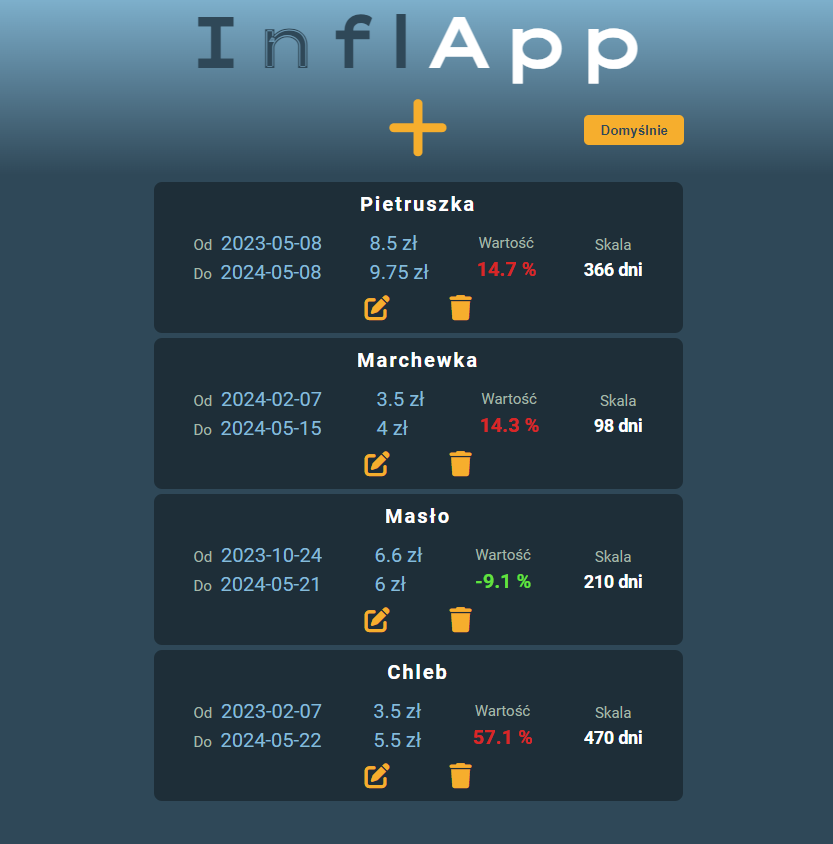
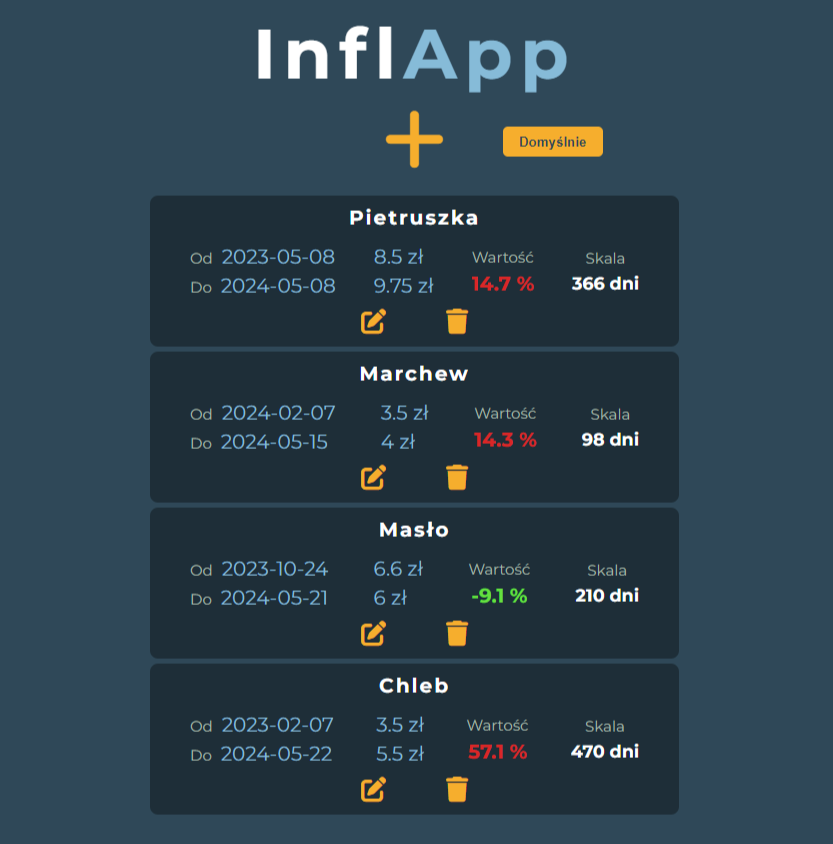
Change inflapp img

Changed region(s): [[0.0, 0.0, 1.0, 0.9858]]

diff --git a/css/main.css b/css/main.css
@@ -516,6 +516,9 @@ main .filters-active[data-content] {
   }
 }
 @media screen and (min-width: 992px) {
+  .bg.active {
+    display: none;
+  }
   header {
     padding-top: 4rem;
   }

diff --git a/sass/main.scss b/sass/main.scss
@@ -470,6 +470,11 @@ main {
 	}
 }
 @media screen and (min-width: 992px) {
+	.bg {
+		&.active {
+			display: none;
+		}
+	}
 	header {
 		padding-top: 4rem;
 		.data {
